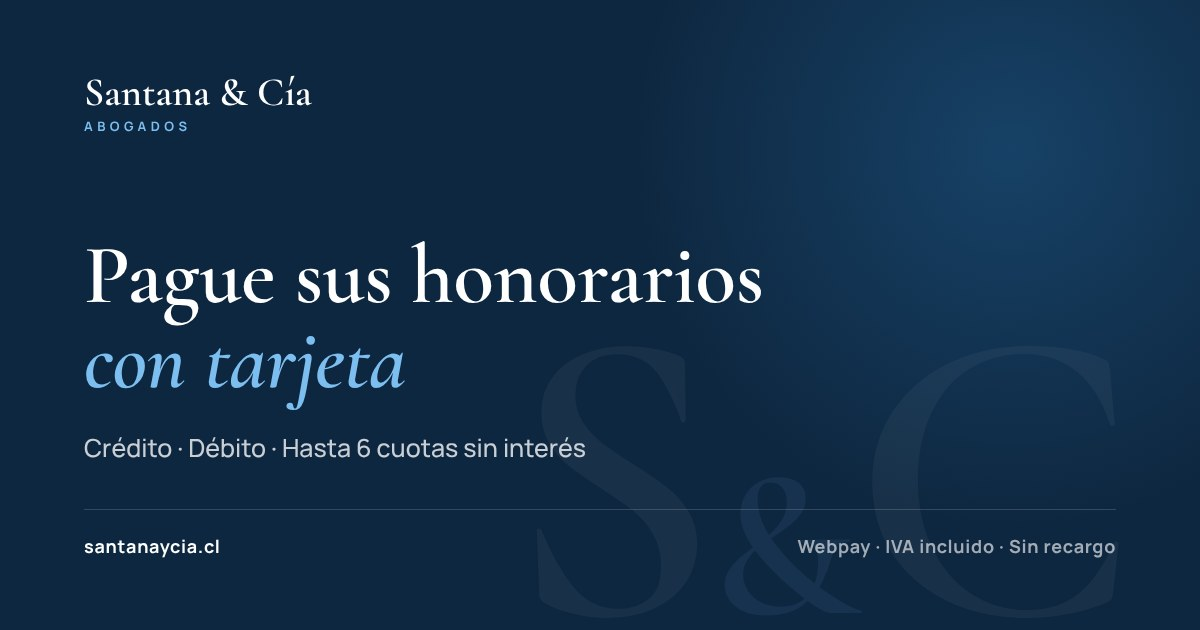
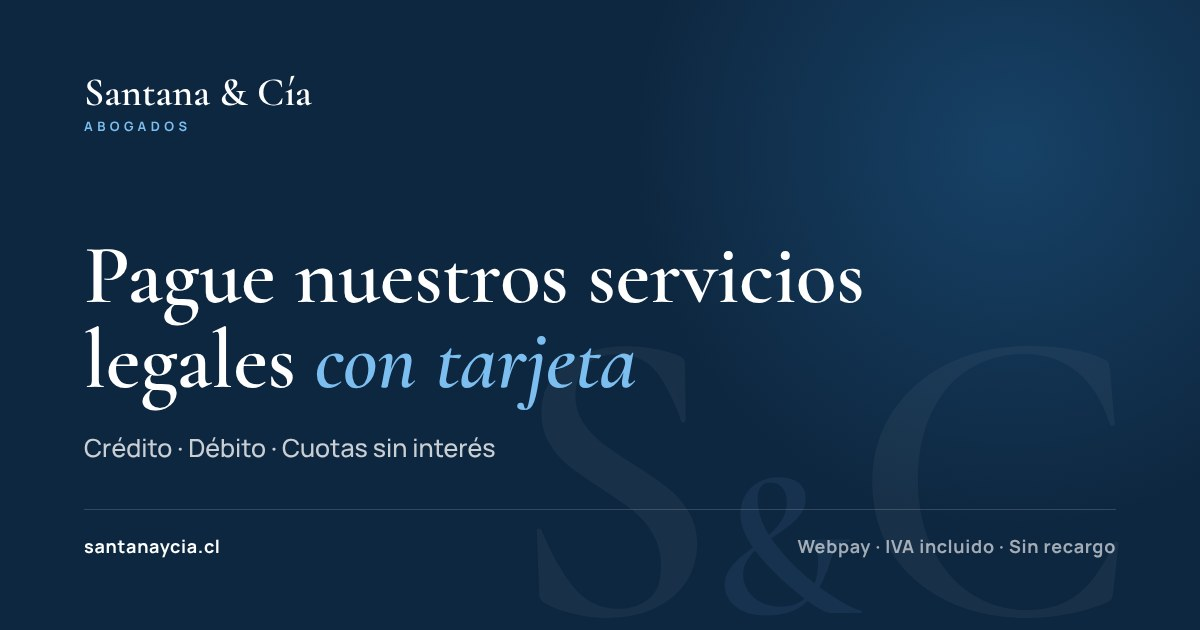
Formas de pago: 'nuestros servicios legales', foco en pagos con tarjeta
- Título: 'Pague nuestros servicios legales con tarjeta'
- Medios según Flow: tarjetas (Webpay), cuotas sin interés y banca.me,
  billeteras digitales (MACH), transferencia en línea (Khipu, Etpay)
- Inicio, meta y llms.txt: mensaje genérico 'Pagos con tarjeta', sin número de cuotas

Claude-Session: https://claude.ai/code/session_01QKc1vAuGiYVCgKT3QMXU3g

Changed region(s): [[0.0617, 0.5127, 0.5242, 0.6635], [0.2467, 0.3921, 0.74, 0.4825], [0.2158, 0.6937, 0.4933, 0.7238]]

diff --git a/formas-de-pago.html b/formas-de-pago.html
@@ -9,8 +9,8 @@
   <link rel="icon" type="image/png" sizes="16x16" href="/favicon-16x16.png">
   <link rel="apple-touch-icon" sizes="180x180" href="/apple-touch-icon.png">
   <link rel="manifest" href="/site.webmanifest">
-  <title>Abogados que aceptan tarjeta de crédito y débito | Santana &amp; Cía</title>
-  <meta name="description" content="Pague sus honorarios de abogado con tarjeta de crédito, débito o prepago vía Webpay, en hasta 6 cuotas sin interés y sin recargo. IVA incluido. Santana &amp; Cía Abogados, todo Chile.">
+  <title>Abogados que aceptan pago con tarjeta | Santana &amp; Cía Abogados</title>
+  <meta name="description" content="Pague nuestros servicios legales con tarjeta de crédito o débito vía Webpay, en cuotas sin interés, con billeteras digitales o transferencia en línea. Sin recargo e IVA incluido. Santana &amp; Cía Abogados, todo Chile.">
   <meta name="robots" content="index, follow, max-image-preview:large, max-snippet:-1">
   <meta name="theme-color" content="#0e2740">
   <meta name="author" content="Santana &amp; Cía Abogados">
@@ -21,17 +21,17 @@
 
   <meta property="og:type" content="website">
   <meta property="og:url" content="https://www.santanaycia.cl/formas-de-pago">
-  <meta property="og:title" content="Pague sus honorarios con tarjeta | Santana &amp; Cía Abogados">
-  <meta property="og:description" content="Crédito, débito y prepago vía Webpay. Hasta 6 cuotas sin interés, sin recargo e IVA incluido.">
+  <meta property="og:title" content="Pague nuestros servicios legales con tarjeta | Santana &amp; Cía Abogados">
+  <meta property="og:description" content="Tarjetas de crédito y débito vía Webpay, cuotas sin interés. Sin recargo e IVA incluido.">
   <meta property="og:image" content="https://www.santanaycia.cl/og-formas-de-pago.jpg">
   <meta property="og:image:width" content="1200">
   <meta property="og:image:height" content="630">
-  <meta property="og:image:alt" content="Santana &amp; Cía Abogados — Pague sus honorarios con tarjeta">
+  <meta property="og:image:alt" content="Santana &amp; Cía Abogados — Pagos con tarjeta">
   <meta property="og:locale" content="es_CL">
   <meta property="og:site_name" content="Santana &amp; Cía Abogados">
   <meta name="twitter:card" content="summary_large_image">
-  <meta name="twitter:title" content="Pague sus honorarios con tarjeta | Santana &amp; Cía Abogados">
-  <meta name="twitter:description" content="Crédito, débito y prepago vía Webpay. Hasta 6 cuotas sin interés, sin recargo e IVA incluido.">
+  <meta name="twitter:title" content="Pague nuestros servicios legales con tarjeta | Santana &amp; Cía Abogados">
+  <meta name="twitter:description" content="Tarjetas de crédito y débito vía Webpay, cuotas sin interés. Sin recargo e IVA incluido.">
   <meta name="twitter:image" content="https://www.santanaycia.cl/og-formas-de-pago.jpg">
 
   <script type="application/ld+json">
@@ -44,7 +44,7 @@
       "url": "https://www.santanaycia.cl/formas-de-pago",
       "inLanguage": "es-CL",
       "name": "Formas de pago — Santana & Cía Abogados",
-      "description": "Pague sus honorarios de abogado con tarjeta de crédito, débito o prepago vía Webpay, en hasta 6 cuotas sin interés y sin recargo. IVA incluido. Santana & Cía Abogados, todo Chile.",
+      "description": "Pague nuestros servicios legales con tarjeta de crédito o débito vía Webpay, en cuotas sin interés, con billeteras digitales o transferencia en línea. Sin recargo e IVA incluido. Santana & Cía Abogados, todo Chile.",
       "primaryImageOfPage": {
         "@type": "ImageObject",
         "url": "https://www.santanaycia.cl/og-formas-de-pago.jpg",
@@ -81,10 +81,10 @@
       },
       "priceRange": "$$",
       "currenciesAccepted": "CLP",
-      "paymentAccepted": "Tarjeta de crédito, Tarjeta de débito, Tarjeta prepago, Webpay, Transferencia bancaria",
+      "paymentAccepted": "Tarjeta de crédito, Tarjeta de débito, Tarjeta prepago, Webpay, Billeteras digitales, Transferencia bancaria",
       "hasOfferCatalog": {
         "@type": "OfferCatalog",
-        "name": "Medios de pago de honorarios",
+        "name": "Medios de pago",
         "itemListElement": [
           {
             "@type": "Offer",
@@ -92,7 +92,7 @@
             "priceCurrency": "CLP",
             "acceptedPaymentMethod": {
               "@type": "PaymentMethod",
-              "name": "Tarjeta de crédito (Visa, Mastercard, American Express, Diners Club)"
+              "name": "Tarjeta de crédito (Visa, Mastercard, American Express)"
             }
           },
           {
@@ -106,16 +106,21 @@
           },
           {
             "@type": "Offer",
-            "name": "Hasta 6 cuotas sin interés con tarjeta de crédito",
+            "name": "Cuotas sin interés con tarjeta de crédito",
             "priceCurrency": "CLP"
           },
           {
             "@type": "Offer",
-            "name": "Transferencia bancaria",
+            "name": "Billeteras digitales (MACH y otras)",
+            "priceCurrency": "CLP"
+          },
+          {
+            "@type": "Offer",
+            "name": "Transferencia en línea",
             "priceCurrency": "CLP",
             "acceptedPaymentMethod": {
               "@type": "PaymentMethod",
-              "name": "Transferencia bancaria"
+              "name": "Transferencia bancaria en línea (Khipu, Etpay)"
             }
           }
         ]
@@ -145,10 +150,10 @@
       "mainEntity": [
         {
           "@type": "Question",
-          "name": "¿Puedo pagar los honorarios del abogado con tarjeta de crédito?",
+          "name": "¿Puedo pagar los servicios de un abogado con tarjeta?",
           "acceptedAnswer": {
             "@type": "Answer",
-            "text": "Sí. En Santana & Cía Abogados los honorarios se pagan con tarjeta de crédito, débito o prepago a través de Webpay de Transbank. Aceptamos Visa, Mastercard, American Express, Diners Club y tarjetas Redcompra, nacionales o internacionales."
+            "text": "Sí. En Santana & Cía Abogados aceptamos pagos con tarjeta de crédito, débito o prepago a través de Webpay de Transbank: Visa, Mastercard, American Express y Redcompra, entre otras. También puede pagar con billeteras digitales como MACH o por transferencia en línea."
           }
         },
         {
@@ -156,7 +161,7 @@
           "name": "¿Puedo pagar en cuotas sin interés?",
           "acceptedAnswer": {
             "@type": "Answer",
-            "text": "Sí. Con tarjeta de crédito puede dividir el pago en hasta 6 cuotas sin interés. En juicios con honorarios mayores, también se puede pactar un plan de pago en cuotas mensuales, según acuerdo previo."
+            "text": "Sí. Con tarjeta de crédito puede pagar en cuotas sin interés, y también existe la opción de cuotas sin tarjeta con banca.me. En juicios de mayor valor, además se puede pactar un plan de pago en cuotas mensuales, según acuerdo previo."
           }
         },
         {
@@ -172,7 +177,7 @@
           "name": "¿Cómo se realiza el pago?",
           "acceptedAnswer": {
             "@type": "Answer",
-            "text": "Una vez acordados los honorarios, le enviamos por WhatsApp o correo el detalle del cobro con su nombre, su caso y el monto, y un botón para pagar en línea. El comprobante le llega a su correo al instante."
+            "text": "Una vez acordado el servicio, le enviamos por WhatsApp o correo el detalle del cobro con su nombre, su caso y el monto, y un botón para pagar en línea. El comprobante le llega a su correo al instante."
           }
         },
         {
@@ -487,10 +492,10 @@
       <div>
         <p class="crumbs"><a href="https://www.santanaycia.cl/">Inicio</a> / Formas de pago</p>
         <span class="fp-eyebrow">Formas de pago</span>
-        <h1>Pague sus honorarios<br><em>con tarjeta</em></h1>
-        <p class="fp-lead">Crédito, débito y prepago a través de Webpay, con hasta 6 cuotas sin interés. Sin recargo y con IVA incluido. Una comodidad poco habitual en un estudio jurídico.</p>
+        <h1>Pague nuestros servicios legales <em>con tarjeta</em></h1>
+        <p class="fp-lead">Aceptamos tarjetas de crédito y débito a través de Webpay, con cuotas sin interés. Sin recargo y con IVA incluido. Una comodidad poco habitual en un estudio jurídico.</p>
         <ul class="fp-brands" aria-label="Tarjetas aceptadas">
-          <li>Visa</li><li>Mastercard</li><li>American Express</li><li>Diners Club</li><li>Redcompra</li><li>Webpay</li>
+          <li>Visa</li><li>Mastercard</li><li>American Express</li><li>Redcompra</li><li>Webpay</li><li>MACH</li>
         </ul>
       </div>
       <div class="fp-visual" aria-hidden="true">
@@ -498,7 +503,7 @@
         <div class="fp-cc front">
           <div class="row"><span class="fp-chip"></span><span class="fp-mono">S<i>&amp;</i>C</span></div>
           <div class="fp-num">•••• •••• •••• 2026</div>
-          <div class="row"><small>Honorarios</small><b>WEBPAY</b></div>
+          <div class="row"><small>Santana &amp; Cía</small><b>WEBPAY</b></div>
         </div>
       </div>
     </div>
@@ -509,10 +514,10 @@
       <h2 class="fp-h2" id="medios">Medios de pago</h2>
       <p class="fp-kicker">Elija la forma que más le acomode. El monto es el mismo en todos los casos.</p>
       <div class="fp-methods">
-        <div class="fp-m"><svg viewBox="0 0 24 24" fill="none" stroke="currentColor" stroke-width="1.6" stroke-linecap="round" stroke-linejoin="round" aria-hidden="true"><rect x="2.5" y="5.5" width="19" height="13" rx="2"/><path d="M2.5 10h19M6 15h4"/></svg><h3>Tarjeta de crédito</h3><p>Nacionales o internacionales, a través de Webpay.</p></div>
-        <div class="fp-m"><svg viewBox="0 0 24 24" fill="none" stroke="currentColor" stroke-width="1.6" stroke-linecap="round" stroke-linejoin="round" aria-hidden="true"><rect x="3.5" y="5" width="17" height="15.5" rx="2"/><path d="M3.5 9.5h17M8 3v4M16 3v4M8 14h2M14 14h2M8 17h2"/></svg><h3>Cuotas sin interés</h3><p>Hasta 6 cuotas sin interés con tarjeta de crédito.</p></div>
-        <div class="fp-m"><svg viewBox="0 0 24 24" fill="none" stroke="currentColor" stroke-width="1.6" stroke-linecap="round" stroke-linejoin="round" aria-hidden="true"><rect x="2.5" y="5.5" width="19" height="13" rx="2"/><path d="M6 10h5M6 14h7"/><circle cx="17" cy="12" r="1.8"/></svg><h3>Débito y prepago</h3><p>Redcompra, cuenta vista, CuentaRUT o tarjeta prepago.</p></div>
-        <div class="fp-m"><svg viewBox="0 0 24 24" fill="none" stroke="currentColor" stroke-width="1.6" stroke-linecap="round" stroke-linejoin="round" aria-hidden="true"><path d="M3 9.5L12 4l9 5.5M5 10v7M9.5 10v7M14.5 10v7M19 10v7M3 20h18"/></svg><h3>Transferencia</h3><p>A la cuenta corriente de la empresa, si lo prefiere.</p></div>
+        <div class="fp-m"><svg viewBox="0 0 24 24" fill="none" stroke="currentColor" stroke-width="1.6" stroke-linecap="round" stroke-linejoin="round" aria-hidden="true"><rect x="2.5" y="5.5" width="19" height="13" rx="2"/><path d="M2.5 10h19M6 15h4"/></svg><h3>Tarjetas de crédito y débito</h3><p>Crédito, débito y prepago, a través de Webpay.</p></div>
+        <div class="fp-m"><svg viewBox="0 0 24 24" fill="none" stroke="currentColor" stroke-width="1.6" stroke-linecap="round" stroke-linejoin="round" aria-hidden="true"><rect x="3.5" y="5" width="17" height="15.5" rx="2"/><path d="M3.5 9.5h17M8 3v4M16 3v4M8 14h2M14 14h2M8 17h2"/></svg><h3>Cuotas sin interés</h3><p>Con tarjeta de crédito, o cuotas sin tarjeta con banca.me.</p></div>
+        <div class="fp-m"><svg viewBox="0 0 24 24" fill="none" stroke="currentColor" stroke-width="1.6" stroke-linecap="round" stroke-linejoin="round" aria-hidden="true"><rect x="6.5" y="2.5" width="11" height="19" rx="2.2"/><path d="M10.5 18.5h3"/></svg><h3>Billeteras digitales</h3><p>MACH y otras billeteras, desde su celular.</p></div>
+        <div class="fp-m"><svg viewBox="0 0 24 24" fill="none" stroke="currentColor" stroke-width="1.6" stroke-linecap="round" stroke-linejoin="round" aria-hidden="true"><path d="M3 9.5L12 4l9 5.5M5 10v7M9.5 10v7M14.5 10v7M19 10v7M3 20h18"/></svg><h3>Transferencia en línea</h3><p>Desde su banco, con Khipu o Etpay.</p></div>
       </div>
       <ul class="fp-assure">
         <li><svg viewBox="0 0 24 24" fill="none" stroke="currentColor" stroke-width="2" stroke-linecap="round" stroke-linejoin="round" aria-hidden="true"><circle cx="12" cy="12" r="9.5" stroke-width="1.5"/><path d="M8 12.3l2.7 2.7L16 9.6"/></svg><span><strong>Sin recargo</strong>Mismo valor con tarjeta.</span></li>
@@ -525,13 +530,13 @@
     <section class="fp-sec fp-faq" aria-labelledby="faq">
       <div>
         <h2 class="fp-h2" id="faq">Preguntas frecuentes</h2>
-        <p class="fp-kicker">Sobre el pago de honorarios con tarjeta.</p>
+        <p class="fp-kicker">Sobre los pagos con tarjeta.</p>
       </div>
       <div class="fp-faq-list">
-        <details><summary>¿Puedo pagar los honorarios del abogado con tarjeta de crédito?</summary><p>Sí. En Santana &amp; Cía Abogados los honorarios se pagan con tarjeta de crédito, débito o prepago a través de Webpay de Transbank. Aceptamos Visa, Mastercard, American Express, Diners Club y tarjetas Redcompra, nacionales o internacionales.</p></details>
-        <details><summary>¿Puedo pagar en cuotas sin interés?</summary><p>Sí. Con tarjeta de crédito puede dividir el pago en hasta 6 cuotas sin interés. En juicios con honorarios mayores, también se puede pactar un plan de pago en cuotas mensuales, según acuerdo previo.</p></details>
+        <details><summary>¿Puedo pagar los servicios de un abogado con tarjeta?</summary><p>Sí. En Santana &amp; Cía Abogados aceptamos pagos con tarjeta de crédito, débito o prepago a través de Webpay de Transbank: Visa, Mastercard, American Express y Redcompra, entre otras. También puede pagar con billeteras digitales como MACH o por transferencia en línea.</p></details>
+        <details><summary>¿Puedo pagar en cuotas sin interés?</summary><p>Sí. Con tarjeta de crédito puede pagar en cuotas sin interés, y también existe la opción de cuotas sin tarjeta con banca.me. En juicios de mayor valor, además se puede pactar un plan de pago en cuotas mensuales, según acuerdo previo.</p></details>
         <details><summary>¿Pagar con tarjeta tiene recargo?</summary><p>No. El monto es el mismo si paga con tarjeta, débito o transferencia. Todos nuestros valores incluyen IVA.</p></details>
-        <details><summary>¿Cómo se realiza el pago?</summary><p>Una vez acordados los honorarios, le enviamos por WhatsApp o correo el detalle del cobro con su nombre, su caso y el monto, y un botón para pagar en línea. El comprobante le llega a su correo al instante.</p></details>
+        <details><summary>¿Cómo se realiza el pago?</summary><p>Una vez acordado el servicio, le enviamos por WhatsApp o correo el detalle del cobro con su nombre, su caso y el monto, y un botón para pagar en línea. El comprobante le llega a su correo al instante.</p></details>
         <details><summary>¿Puedo pagar desde el extranjero?</summary><p>Sí. Puede pagar con tarjetas emitidas fuera de Chile a través de Webpay, o por transferencia bancaria. Es una alternativa práctica para chilenos que viven fuera del país y tienen asuntos legales en Chile.</p></details>
         <details><summary>¿Es seguro pagar en línea?</summary><p>Sí. Los pagos los procesa Flow con Webpay de Transbank. Los datos de su tarjeta se ingresan directamente en la plataforma de pago y nunca pasan por nuestro sitio.</p></details>
         <details><summary>¿Emiten factura?</summary><p>Sí. Si necesita factura para su empresa, la emitimos a nombre de Santana y Cía. SpA con los datos que nos indique.</p></details>

diff --git a/index.html b/index.html
@@ -9,7 +9,7 @@
        SEO
   ═══════════════════════════════════════════ -->
   <title>Santana &amp; Cía | Abogados Chile — Familia, Civil, Herencias y Arriendo</title>
-  <meta name="description" content="Santana &amp; Cía Abogados: estudio jurídico especializado en derecho de familia, derecho civil, herencias y arriendo en Chile. Pensión de alimentos, divorcio, contratos, cobro de deudas, Ley Devuélveme mi Casa y posesión efectiva. Primera evaluación sin costo. Pago con tarjeta de crédito o débito y hasta 6 cuotas sin interés.">
+  <meta name="description" content="Santana &amp; Cía Abogados: estudio jurídico especializado en derecho de familia, derecho civil, herencias y arriendo en Chile. Pensión de alimentos, divorcio, contratos, cobro de deudas, Ley Devuélveme mi Casa y posesión efectiva. Primera evaluación sin costo. Aceptamos pagos con tarjeta.">
   <meta name="keywords" content="abogado chile, abogado santiago, santana y cia abogados, abogado familia chile, abogado civil chile, abogado herencias chile, abogado arriendo chile, pension de alimentos, divorcio chile, tuicion, violencia intrafamiliar, contratos, indemnizacion perjuicios, cobro deudas, ley devuelveme mi casa, posesion efectiva, santanaycia.cl, contacto@santanaycia.cl">
   <meta name="robots" content="index, follow, max-snippet:-1, max-image-preview:large, max-video-preview:-1">
   <meta name="googlebot" content="index, follow, max-snippet:-1, max-image-preview:large">
@@ -297,10 +297,10 @@
       },
       {
         "@type": "Question",
-        "name": "¿Puedo pagar los honorarios con tarjeta de crédito o en cuotas?",
+        "name": "¿Puedo pagar con tarjeta?",
         "acceptedAnswer": {
           "@type": "Answer",
-          "text": "Sí. En Santana & Cía Abogados los honorarios se pueden pagar con tarjeta de crédito, débito o prepago a través de Webpay de Transbank, en hasta 6 cuotas sin interés y sin recargo, o por transferencia bancaria. Todos los valores incluyen IVA. Más información en santanaycia.cl/formas-de-pago."
+          "text": "Sí. Santana & Cía Abogados acepta pagos con tarjeta de crédito y débito a través de Webpay, sin recargo, además de otros medios de pago en línea. Todos los valores incluyen IVA. Más información en santanaycia.cl/formas-de-pago."
         }
       },
       {
@@ -883,7 +883,7 @@
         <p class="hero-sub" data-en="Family, civil, estate, rental and property law. One firm, service across Chile.">Familia, civil, herencias, arriendo y propiedades. Un solo estudio, atención en todo Chile.</p>
         <div class="hero-trust">
           <span data-en="Free Initial Assessment">Primera evaluación sin costo</span>
-          <span data-en="Card payments, up to 6 interest-free installments">Pago con tarjeta y hasta 6 cuotas sin interés</span>
+          <span data-en="Card payments accepted">Pagos con tarjeta</span>
           <span data-en="Service Across Chile">Atención en todo Chile</span>
         </div>
       </div>
@@ -1157,8 +1157,8 @@
           <p data-en="The initial case assessment is free. We review every situation before the first meeting and respond within 24 business hours.">La primera evaluación del caso es sin costo. Analizamos cada situación antes de la primera reunión y respondemos en un máximo de 24 horas hábiles.</p>
         </details>
         <details class="faq-item">
-          <summary data-en="Can I pay the fees by credit card or in installments?">¿Puedo pagar los honorarios con tarjeta de crédito o en cuotas?</summary>
-          <p data-en="Yes. Fees can be paid by credit, debit or prepaid card through Webpay (Transbank), in up to 6 interest-free installments and with no surcharge, or by bank transfer. All prices include VAT. See our payment options.">Sí. Puede pagar con tarjeta de crédito, débito o prepago a través de Webpay, en hasta 6 cuotas sin interés y sin recargo, o por transferencia. Todos los valores incluyen IVA. Ver <a href="https://www.santanaycia.cl/formas-de-pago">formas de pago</a>.</p>
+          <summary data-en="Can I pay by card?">¿Puedo pagar con tarjeta?</summary>
+          <p data-en="Yes. We accept credit and debit card payments through Webpay, with no surcharge, as well as other online payment methods. All prices include VAT.">Sí. Aceptamos pagos con tarjeta de crédito y débito a través de Webpay, sin recargo, además de otros medios de pago en línea. Todos los valores incluyen IVA. Ver <a href="https://www.santanaycia.cl/formas-de-pago">formas de pago</a>.</p>
         </details>
         <details class="faq-item">
           <summary data-en="How can I contact Santana &amp; Cía Abogados?">¿Cómo contactar a Santana &amp; Cía Abogados?</summary>
